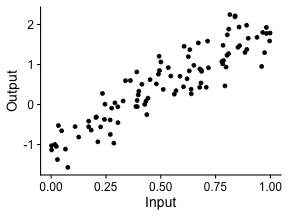
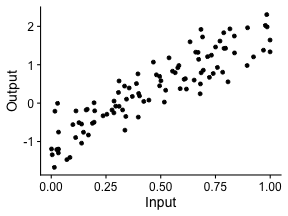
Update to include subtitle

diff --git a/slides/introduction_to_reproducible_computational_research.html b/slides/introduction_to_reproducible_computational_research.html
@@ -14,9 +14,10 @@
 class: center, middle, inverse, title-slide
 
 # An introduction to reproducible computational research
+## Advanced Computational Biology I
 ### Kieran Campbell
 ### Lunenfeld Tanenbaum Research Institute &amp; University of Toronto
-### 2021-01-12 (updated: 2021-03-16)
+### 2021-01-12 (updated: 2021-03-25)
 
 ---
 
@@ -173,7 +174,7 @@ runif(5)
 ```
 
 ```
-## [1] 0.18699336 0.03107596 0.68288591 0.95191400 0.54740634
+## [1] 0.49649722 0.48737342 0.89900479 0.08608249 0.89292939
 ```
 
 We want our numbers to be **random** but also **reproducible**&lt;sup&gt;1&lt;/sup&gt;
@@ -200,7 +201,7 @@ print(runif(3))
 ```
 
 ```
-## [1] 0.5813489 0.3335551 0.0501736
+## [1] 0.3975508 0.5308851 0.2399371
 ```
 
 ```r
@@ -208,7 +209,7 @@ print(runif(3))
 ```
 
 ```
-## [1] 0.5702570 0.6479943 0.9203570
+## [1] 0.14720375 0.76455025 0.02877053
 ```
 ]
 

diff --git a/slides/introduction_to_supervised_learning.html b/slides/introduction_to_supervised_learning.html
@@ -14,9 +14,10 @@
 class: center, middle, inverse, title-slide
 
 # An introduction to supervised machine learning
+## Advanced Computational Biology I
 ### Kieran Campbell
 ### Lunenfeld Tanenbaum Research Institute &amp; University of Toronto
-### 2021-02-22 (updated: 2021-03-16)
+### 2021-02-22 (updated: 2021-03-25)
 
 ---
 
